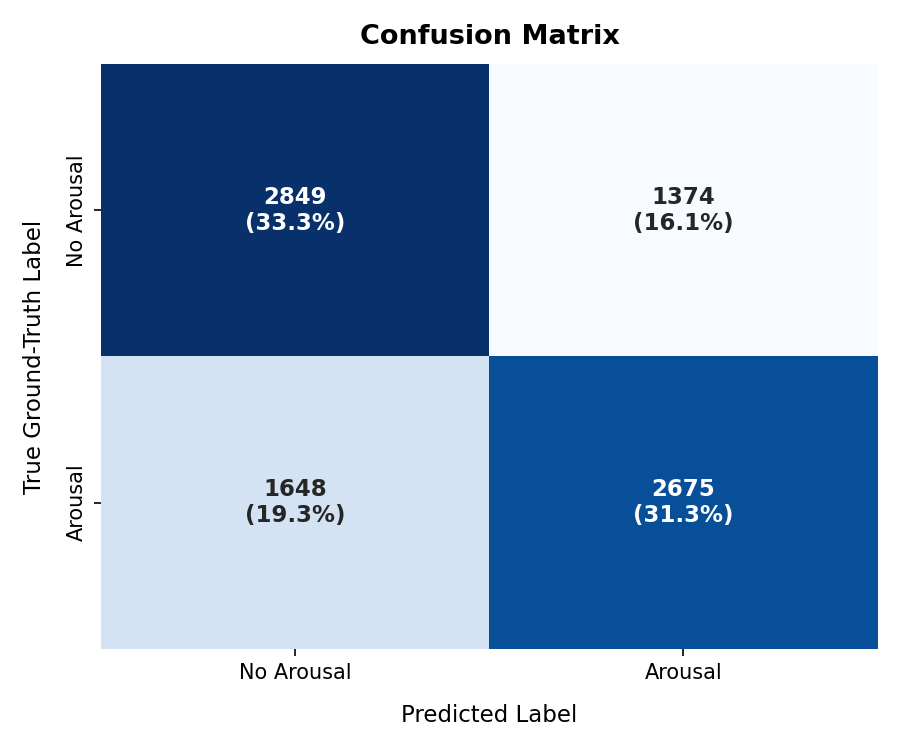
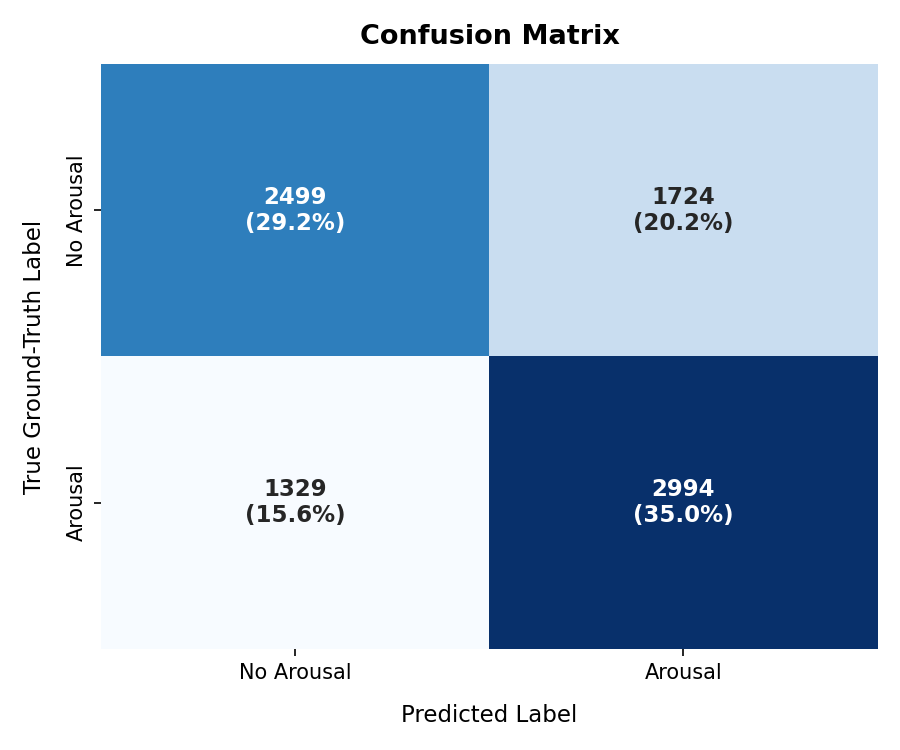
feat: added attention layer

diff --git a/src/networks/dual_branch.py b/src/networks/dual_branch.py
@@ -71,79 +71,93 @@ class EEGContextNet(nn.Module):
     def __init__(self, temporal_in_ch=2, ctx_in_ch=10):
         super(EEGContextNet, self).__init__()
         
-        # =================================================================
         # BRANCH 1: Temporal (Raw EEG)
-        # Expected Input shape: (Batch, 2, 1500)  <- 15s at 100Hz
-        # =================================================================
         self.temporal_branch = nn.Sequential(
-            # Conv 1: Wide kernel to capture slow waves, stride 5 drops 80% of data
             nn.Conv1d(in_channels=temporal_in_ch, out_channels=8, kernel_size=50, stride=5, padding=25),
             nn.BatchNorm1d(8),
-            nn.ReLU(),
+            nn.LeakyReLU(0.01),
             nn.MaxPool1d(kernel_size=2, stride=2), 
-            nn.Dropout1d(0.15),
+            nn.Dropout1d(0.3),
             
-            # Conv 2: Smaller kernel to catch rapid beta/spindle bursts
             nn.Conv1d(in_channels=8, out_channels=16, kernel_size=10, stride=2, padding=4),
             nn.BatchNorm1d(16),
-            nn.ReLU(),
+            nn.LeakyReLU(0.01),
             nn.MaxPool1d(kernel_size=2, stride=2),
-            nn.Dropout1d(0.15),
+            nn.Dropout1d(0.3),
             
-            # Conv 3: Final temporal features
             nn.Conv1d(in_channels=16, out_channels=32, kernel_size=5, stride=1, padding=2),
             nn.BatchNorm1d(32),
-            nn.ReLU(),
-            # Global Average Pooling forces the output to (Batch, 32, 1) regardless of input length
-            nn.AdaptiveAvgPool1d(1), 
-            nn.Flatten() # Output: 32 features
+            nn.LeakyReLU(0.01),
+
+            # Attention Block
+            SEBlock1D(in_channels=32, reduction=4),
+
+            # TWEAK 1: Peak detection instead of average blurring
+            nn.AdaptiveMaxPool1d(1), 
+            nn.Flatten() 
         )
         
-        # =================================================================
         # BRANCH 2: Context (Rolling Bandpower)
-        # Expected Input shape: (Batch, 10, 148) <- 10 bands, 148 time steps
-        # =================================================================
         self.context_branch = nn.Sequential(
-            # Conv 1: Look at trends over roughly 14 seconds (kernel=7 steps * 2s)
-            nn.Conv1d(in_channels=ctx_in_ch, out_channels=16, kernel_size=7, stride=2, padding=3),
+            # TWEAK 2: Wider view of the 5-minute history
+            nn.Conv1d(in_channels=ctx_in_ch, out_channels=16, kernel_size=15, stride=3, padding=7),
             nn.BatchNorm1d(16),
-            nn.ReLU(),
-            nn.Dropout1d(0.15),
+            nn.LeakyReLU(0.01),
+            nn.Dropout1d(0.3),
             
-            # Conv 2: Higher level sleep stage transitions
-            nn.Conv1d(in_channels=16, out_channels=32, kernel_size=5, stride=2, padding=2),
+            nn.Conv1d(in_channels=16, out_channels=32, kernel_size=7, stride=2, padding=3),
             nn.BatchNorm1d(32),
-            nn.ReLU(),
+            nn.LeakyReLU(0.01),
+
+            # Attention Block
+            SEBlock1D(in_channels=32, reduction=4),
             
-            # Global Average Pooling grabs the dominant context state
+            # Context still uses Average Pooling to get the "overall" state of the block
             nn.AdaptiveAvgPool1d(1),
-            nn.Flatten() # Output: 32 features
+            nn.Flatten() 
         )
         
-        # =================================================================
         # LATE FUSION & CLASSIFICATION
-        # Concatenated Input: 32 (Temporal) + 32 (Context) = 64 features
-        # =================================================================
         self.fusion = nn.Sequential(
             nn.Dropout(p=0.4),
             nn.Linear(in_features=64, out_features=32),
-            nn.BatchNorm1d(32), # Added BN to stabilize fusion gradients
-            nn.ReLU(),
-            nn.Dropout(p=0.2),
+            nn.BatchNorm1d(32), 
+            nn.LeakyReLU(0.01), # TWEAK 3: Prevent dead neurons in fusion
+            nn.Dropout(p=0.3),
             nn.Linear(in_features=32, out_features=1) 
-            # BCEWithLogitsLoss expects raw logits
         )
 
     def forward(self, signals, context):
-        """
-        signals shape: (Batch, 2, 1500)
-        context shape: (Batch, 10, 148)
-        """
         x_temp = self.temporal_branch(signals)
         x_ctx = self.context_branch(context)
         
-        # Late Fusion
         x_fused = torch.cat((x_temp, x_ctx), dim=1)
-        
         logits = self.fusion(x_fused)
         return logits.squeeze(-1)
+
+class SEBlock1D(nn.Module):
+    def __init__(self, in_channels, reduction=4):
+        super(SEBlock1D, self).__init__()
+        # Squeeze: Summarize the whole time window into a single value per channel
+        self.squeeze = nn.AdaptiveAvgPool1d(1)
+        
+        # Excitation: A tiny 2-layer network to learn which channels matter right now
+        self.excitation = nn.Sequential(
+            nn.Linear(in_channels, in_channels // reduction, bias=False),
+            nn.ReLU(inplace=True),
+            nn.Linear(in_channels // reduction, in_channels, bias=False),
+            nn.Sigmoid() # Outputs a strict "volume" weight between 0.0 and 1.0
+        )
+
+    def forward(self, x):
+        b, c, t = x.size()
+        
+        # Squeeze: (Batch, Channels, Time) -> (Batch, Channels)
+        y = self.squeeze(x).view(b, c)
+        
+        # Excite: Calculate the volume knob for each channel
+        y = self.excitation(y)
+        
+        # Multiply: Apply the volume knob back to the original time-series data
+        y = y.view(b, c, 1)
+        return x * y

diff --git a/scripts/train/train_context_net.py b/scripts/train/train_context_net.py
@@ -37,10 +37,10 @@ def main():
     # Clean history dictionary (Includes train_loss to prevent your viz.py KeyError)
     history = {'train_loss': [], 'val_loss': [], 'val_precision': [], 'val_f1': []}
     
-    pos_weight = torch.tensor([1]).to(device)
+    pos_weight = torch.tensor([1.2]).to(device)
     criterion = nn.BCEWithLogitsLoss(pos_weight=pos_weight).to(device)
     
-    optimizer = optim.AdamW(model.parameters(), lr=5e-4, weight_decay=1e-3)
+    optimizer = optim.AdamW(model.parameters(), lr=5e-4, weight_decay=1e-2)
     scheduler = optim.lr_scheduler.CosineAnnealingLR(optimizer, T_max=EPOCHS, eta_min=1e-6)
 
     for epoch in range(EPOCHS):
